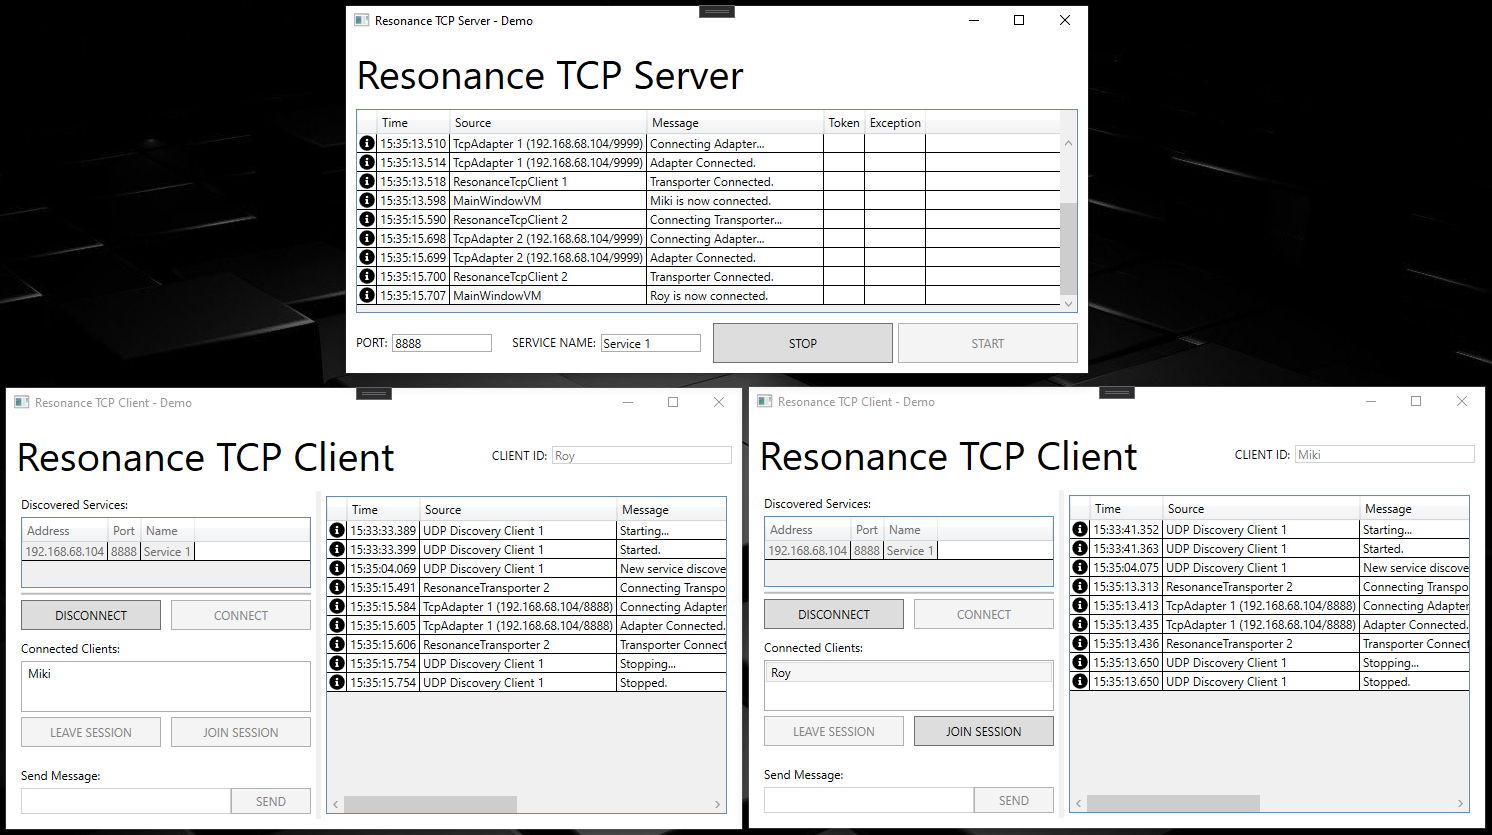
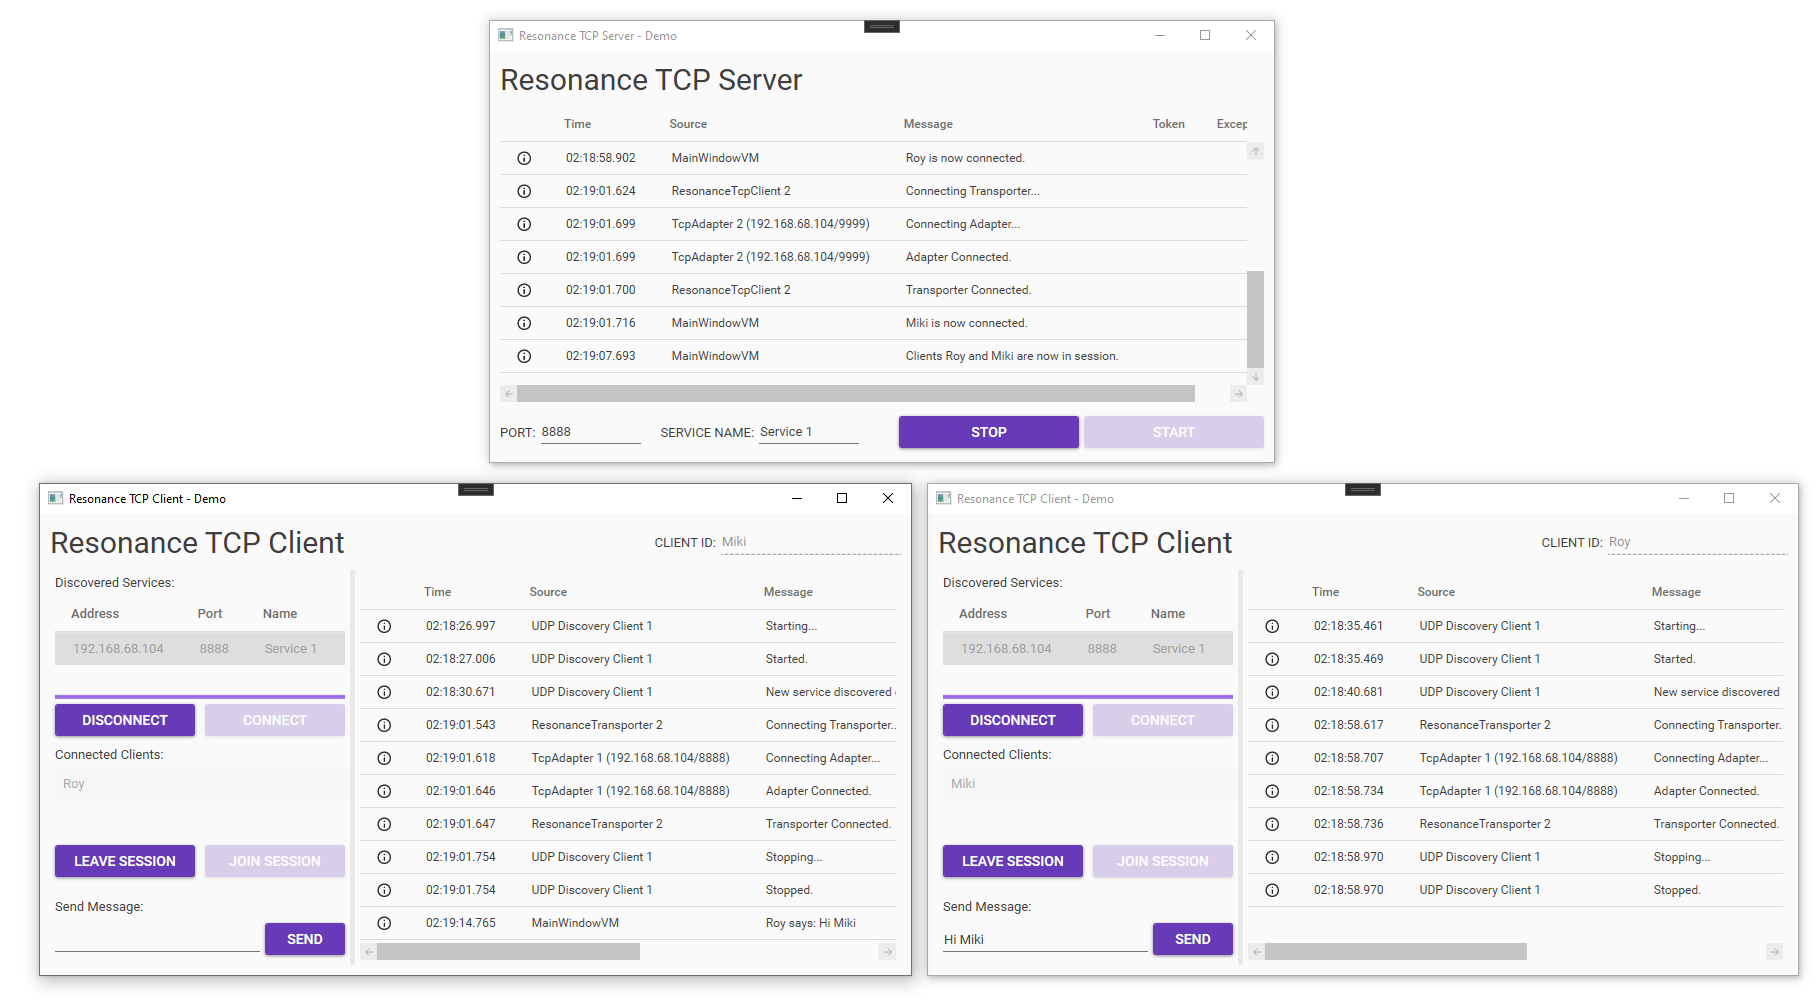
General examples design.

diff --git a/source/Examples/Common/Resonance.Examples.Common/Themes/Generic.xaml b/source/Examples/Common/Resonance.Examples.Common/Themes/Generic.xaml
@@ -4,7 +4,13 @@
     xmlns:logging="clr-namespace:Resonance.Examples.Common.Logging"
     xmlns:fa5="http://schemas.fontawesome.com/icons/"
     xmlns:converters="clr-namespace:Resonance.Examples.Common.Converters"
+    xmlns:material="http://materialdesigninxaml.net/winfx/xaml/themes"
     xmlns:local="clr-namespace:Resonance.Examples.Common">
+
+    <ResourceDictionary.MergedDictionaries>
+        <material:BundledTheme BaseTheme="Light" PrimaryColor="DeepPurple" SecondaryColor="Lime" />
+        <ResourceDictionary Source="pack://application:,,,/MaterialDesignThemes.Wpf;component/Themes/MaterialDesignTheme.Defaults.xaml" />
+    </ResourceDictionary.MergedDictionaries>
 
     <converters:BooleanToVisibilityConverter x:Key="BooleanToVisibilityConverter" />
     <converters:BooleanInverseConverter x:Key="BooleanInverseConverter" />
@@ -16,8 +22,8 @@
             <Setter.Value>
                 <ControlTemplate TargetType="{x:Type logging:LogViewer}">
                     <Border Background="{TemplateBinding Background}"
-                            BorderBrush="{TemplateBinding BorderBrush}"
-                            BorderThickness="{TemplateBinding BorderThickness}">
+                                    BorderBrush="{TemplateBinding BorderBrush}"
+                                    BorderThickness="{TemplateBinding BorderThickness}">
 
                         <DataGrid x:Name="PART_Grid" 
                                   ItemsSource="{TemplateBinding Logs}" 
@@ -25,30 +31,35 @@
                                   IsReadOnly="True"
                                   SelectionMode="Single"
                                   SelectionUnit="FullRow"
+                                  FontSize="12"
                                   HeadersVisibility="Column">
                             <DataGrid.Columns>
                                 <DataGridTemplateColumn Header="">
                                     <DataGridTemplateColumn.CellTemplate>
                                         <DataTemplate>
-                                            <fa5:SvgAwesome Width="16" Height="16">
-                                                <fa5:SvgAwesome.Style>
-                                                    <Style TargetType="fa5:SvgAwesome">
-                                                        <Setter Property="Icon" Value="Solid_InfoCircle"></Setter>
-                                                        <Setter Property="Foreground" Value="Black"></Setter>
+                                            <material:PackIcon Width="16" Height="16">
+                                                <material:PackIcon.Style>
+                                                    <Style TargetType="material:PackIcon">
+                                                        <Setter Property="Kind" Value="InfoCircleOutline"></Setter>
+                                                        <Setter Property="Foreground" Value="{DynamicResource MaterialDesignBody}"></Setter>
 
                                                         <Style.Triggers>
                                                             <DataTrigger Binding="{Binding Level}" Value="Warning">
-                                                                <Setter Property="Icon" Value="Solid_ExclamationTriangle"></Setter>
+                                                                <Setter Property="Kind" Value="AlertOutline"></Setter>
                                                                 <Setter Property="Foreground" Value="Orange"></Setter>
                                                             </DataTrigger>
                                                             <DataTrigger Binding="{Binding Level}" Value="Error">
-                                                                <Setter Property="Icon" Value="Solid_ExclamationTriangle"></Setter>
+                                                                <Setter Property="Kind" Value="AlertOutline"></Setter>
                                                                 <Setter Property="Foreground" Value="Red"></Setter>
+                                                            </DataTrigger>
+                                                            <DataTrigger Binding="{Binding Level}" Value="Debug">
+                                                                <Setter Property="Kind" Value="Buggy"></Setter>
+                                                                <Setter Property="Foreground" Value="Gray"></Setter>
                                                             </DataTrigger>
                                                         </Style.Triggers>
                                                     </Style>
-                                                </fa5:SvgAwesome.Style>
-                                            </fa5:SvgAwesome>
+                                                </material:PackIcon.Style>
+                                            </material:PackIcon>
                                         </DataTemplate>
                                     </DataGridTemplateColumn.CellTemplate>
                                 </DataGridTemplateColumn>
@@ -63,5 +74,13 @@
                 </ControlTemplate>
             </Setter.Value>
         </Setter>
+    </Style>
+
+    <Style TargetType="Window" x:Key="ResonanceWindowStyle">
+        <Setter Property="TextElement.Foreground" Value="{DynamicResource MaterialDesignBody}"></Setter>
+        <Setter Property="TextElement.FontWeight" Value="Regular"></Setter>
+        <Setter Property="TextElement.FontSize" Value="13"></Setter>
+        <Setter Property="Background" Value="{DynamicResource MaterialDesignPaper}"></Setter>
+        <Setter Property="FontFamily" Value="{DynamicResource MaterialDesignFont}"></Setter>
     </Style>
 </ResourceDictionary>

diff --git a/source/Examples/TCP/Resonance.Examples.TCP.Client/MainWindow.xaml b/source/Examples/TCP/Resonance.Examples.TCP.Client/MainWindow.xaml
@@ -6,11 +6,11 @@
         xmlns:local="clr-namespace:Resonance.Examples.TCP.Client"
         xmlns:logging="clr-namespace:Resonance.Examples.Common.Logging;assembly=Resonance.Examples.Common"
         mc:Ignorable="d"
-        Title="Resonance TCP Client - Demo" Height="450" Width="1000" d:DataContext="{d:DesignInstance Type=local:MainWindowVM,IsDesignTimeCreatable=False}">
+        Title="Resonance TCP Client - Demo" Height="500" Width="1000" d:DataContext="{d:DesignInstance Type=local:MainWindowVM,IsDesignTimeCreatable=False}" Style="{StaticResource ResonanceWindowStyle}">
     <Grid Margin="10" IsEnabled="{Binding IsFree}">
         <DockPanel>
             <DockPanel DockPanel.Dock="Top">
-                <TextBlock FontSize="40">Resonance TCP Client</TextBlock>
+                <TextBlock FontSize="30">Resonance TCP Client</TextBlock>
 
                 <DockPanel VerticalAlignment="Center" HorizontalAlignment="Right" IsEnabled="{Binding IsConnected,Converter={StaticResource BooleanInverseConverter}}">
                     <TextBlock VerticalAlignment="Center">CLIENT ID:</TextBlock>
@@ -34,7 +34,7 @@
 
                     <DockPanel>
                         <TextBlock DockPanel.Dock="Top">Discovered Services:</TextBlock>
-                        <UniformGrid Margin="0 5 0 0" Columns="2" DockPanel.Dock="Bottom" Height="30">
+                        <UniformGrid Margin="0 5 0 0" Columns="2" DockPanel.Dock="Bottom" Height="33">
                             <Button Margin="0 0 5 0" Command="{Binding DisconnectCommand}">DISCONNECT</Button>
                             <Button Margin="5 0 0 0" Command="{Binding ConnectCommand}">CONNECT</Button>
                         </UniformGrid>
@@ -50,7 +50,7 @@
 
                     <DockPanel Grid.Row="1" Margin="0 10 0 0">
                         <TextBlock DockPanel.Dock="Top">Connected Clients:</TextBlock>
-                        <UniformGrid Margin="0 5 0 0" Columns="2" DockPanel.Dock="Bottom" Height="30">
+                        <UniformGrid Margin="0 5 0 0" Columns="2" DockPanel.Dock="Bottom" Height="35">
                             <Button Margin="0 0 5 0" Command="{Binding LeaveSessionCommand}">LEAVE SESSION</Button>
                             <Button Margin="5 0 0 0" Command="{Binding JoinSessionCommand}">JOIN SESSION</Button>
                         </UniformGrid>
@@ -62,8 +62,8 @@
                     <DockPanel Grid.Row="2" Margin="0 20 0 0" IsEnabled="{Binding InSession}">
                         <TextBlock DockPanel.Dock="Top">Send Message:</TextBlock>
                         <DockPanel Margin="0 5 0 0">
-                            <Button DockPanel.Dock="Right" Width="80" Command="{Binding SendMessageCommand}">SEND</Button>
-                            <TextBox VerticalContentAlignment="Center" Text="{Binding Message}"></TextBox>
+                            <Button DockPanel.Dock="Right" Margin="5 0 0 0" Width="80" Command="{Binding SendMessageCommand}">SEND</Button>
+                            <TextBox VerticalAlignment="Center" Text="{Binding Message}"></TextBox>
                         </DockPanel>
                     </DockPanel>
                 </Grid>

diff --git a/source/Examples/TCP/Resonance.Examples.TCP.Server/MainWindow.xaml b/source/Examples/TCP/Resonance.Examples.TCP.Server/MainWindow.xaml
@@ -6,17 +6,17 @@
         xmlns:local="clr-namespace:Resonance.Examples.TCP.Server"
         xmlns:logging="clr-namespace:Resonance.Examples.Common.Logging;assembly=Resonance.Examples.Common"
         mc:Ignorable="d"
-        Title="Resonance TCP Server - Demo" Height="450" Width="800" d:DataContext="{d:DesignInstance Type=local:MainWindowVM,IsDesignTimeCreatable=False}">
+        Title="Resonance TCP Server - Demo" Height="450" Width="800" d:DataContext="{d:DesignInstance Type=local:MainWindowVM,IsDesignTimeCreatable=False}" Style="{StaticResource ResonanceWindowStyle}">
     <Grid Margin="10">
         <DockPanel>
-            <TextBlock DockPanel.Dock="Top" FontSize="40">Resonance TCP Server</TextBlock>
+            <TextBlock DockPanel.Dock="Top" FontSize="30">Resonance TCP Server</TextBlock>
 
             <DockPanel DockPanel.Dock="Bottom" Height="40">
                 <DockPanel VerticalAlignment="Center">
-                    <TextBlock>PORT:</TextBlock>
+                    <TextBlock VerticalAlignment="Center">PORT:</TextBlock>
                     <TextBox Margin="5 0 0 0" Width="100" Text="{Binding Port,UpdateSourceTrigger=PropertyChanged}"></TextBox>
 
-                    <TextBlock Margin="20 0 0 0">SERVICE NAME:</TextBlock>
+                    <TextBlock VerticalAlignment="Center" Margin="20 0 0 0">SERVICE NAME:</TextBlock>
                     <TextBox Margin="5 0 0 0" Width="100" Text="{Binding ServiceName,UpdateSourceTrigger=PropertyChanged}"></TextBox>
                 </DockPanel>
                 <StackPanel DockPanel.Dock="Right" Orientation="Horizontal" HorizontalAlignment="Right">

diff --git a/source/Examples/TCP/Resonance.Examples.TCP.Client/App.xaml b/source/Examples/TCP/Resonance.Examples.TCP.Client/App.xaml
@@ -5,10 +5,6 @@
              xmlns:local="clr-namespace:Resonance.Examples.TCP.Client"
              StartupUri="MainWindow.xaml">
     <Application.Resources>
-        <ResourceDictionary>
-            <converters:BooleanToVisibilityConverter x:Key="BooleanToVisibilityConverter" />
-            <converters:BooleanInverseConverter x:Key="BooleanInverseConverter" />
-            <converters:BooleanToVisibilityInverseConverter x:Key="BooleanToVisibilityInverseConverter" />
-        </ResourceDictionary>
+        <ResourceDictionary Source="pack://application:,,,/Resonance.Examples.Common;component/Themes/Generic.xaml" />
     </Application.Resources>
 </Application>

diff --git a/source/Examples/TCP/Resonance.Examples.TCP.Server/App.xaml b/source/Examples/TCP/Resonance.Examples.TCP.Server/App.xaml
@@ -4,6 +4,6 @@
              xmlns:local="clr-namespace:Resonance.Examples.TCP.Server"
              StartupUri="MainWindow.xaml">
     <Application.Resources>
-         
+        <ResourceDictionary Source="pack://application:,,,/Resonance.Examples.Common;component/Themes/Generic.xaml" />
     </Application.Resources>
 </Application>
